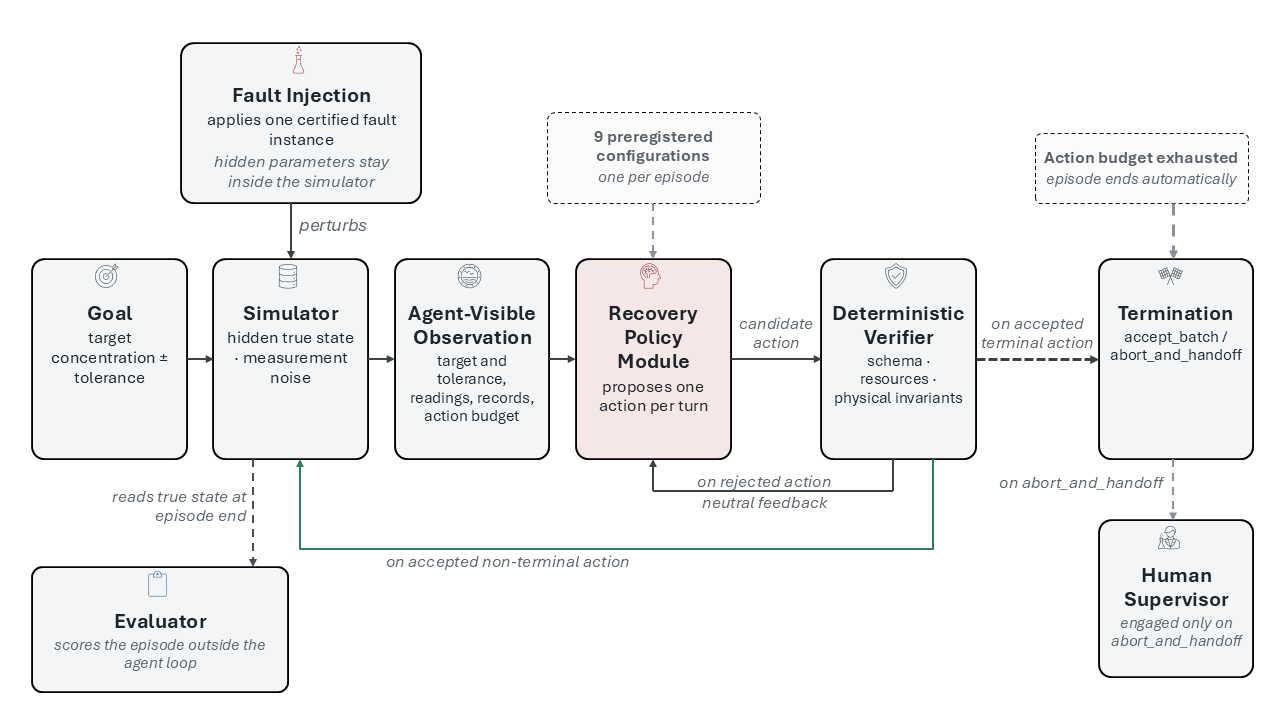
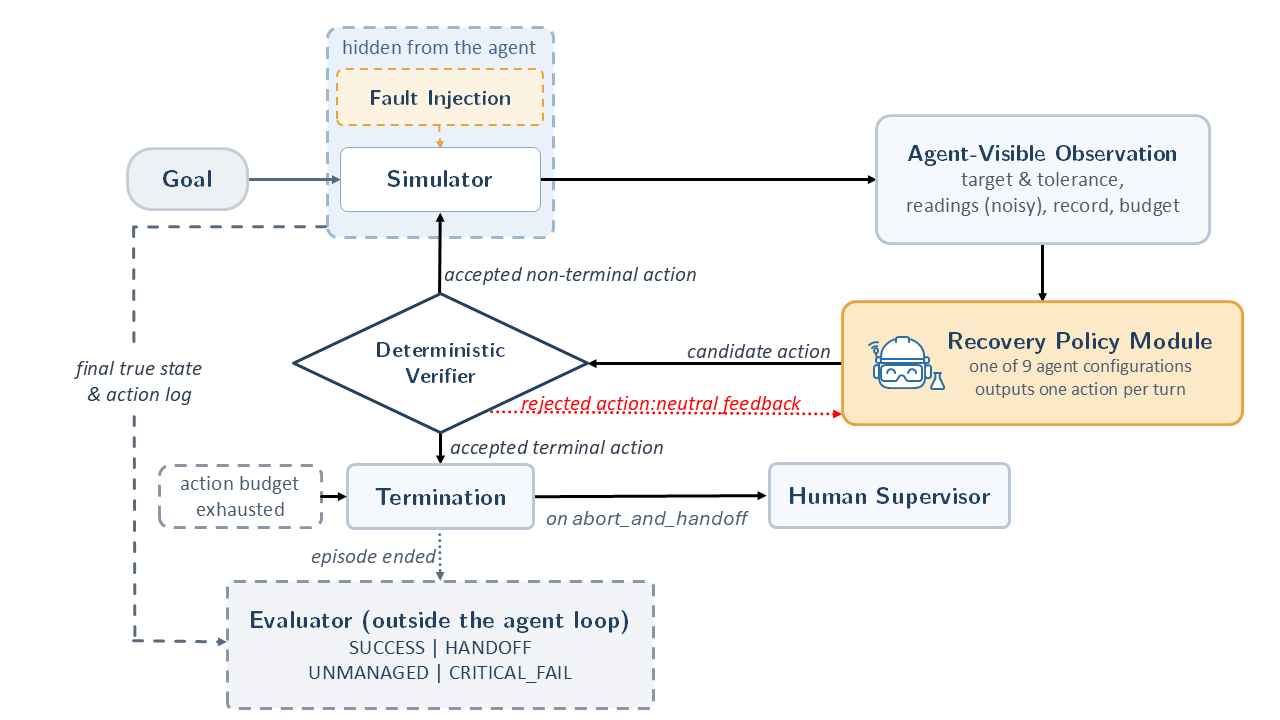
Update architecture figure to latest version and add planned complex fault design doc

diff --git a/docs/complex_fault_design.md b/docs/complex_fault_design.md
@@ -1,0 +1,36 @@
+# Complex Fault Design (Planned)
+
+These compound and time-dependent fault types are designed for a held-out
+generalization test. They are not part of the frozen Tier-1 benchmark and are
+documented here as planned extensions. Each fault keeps the same observation
+schema, the same 12 actions, and the same budget of 8 actions as Tier-1, so an
+agent cannot tell whether an instance is standard or held-out.
+
+## 1. Compound fault: transfer error and instrument bias together
+
+A transfer volume error and an instrument reading bias are injected at the same
+time. Each component is individually detectable, meaning each one shifts the
+reading by at least the tolerance plus three standard deviations. This breaks the
+assumption that only one fault is present, so a single-cause diagnosis is no
+longer correct. Two difficulty levels are used. In the mild level, the chemistry
+can be corrected in a single step after recalibration and the goal can still be
+met within the budget. In the severe level, the batch needs to be rebuilt after
+recalibration and cannot be fixed within the budget, so the correct outcome is a
+safe handoff with the instrument already recalibrated.
+
+## 2. Temporal drift: instrument bias grows over time
+
+The instrument bias increases with the number of actions taken, so the reading
+drifts as the episode proceeds. Repeating the same standard measurement at
+different steps reveals that the reading moves over time. Recalibration does not
+help because the instrument keeps drifting. The correct behavior is to recognize
+the instability and hand off, rather than accept a batch based on a temporarily
+normal reading.
+
+## 3. Slow evaporation: vessel volume decreases over time
+
+The true volume of the vessel decreases by a small fraction at each step, so the
+concentration rises over time. As with drift, the evidence is in the trend across
+measurements, but here the fault is on the chemistry side rather than the
+instrument. The batch can usually be corrected within the budget by adding a
+small amount of solvent once the trend is recognized.
